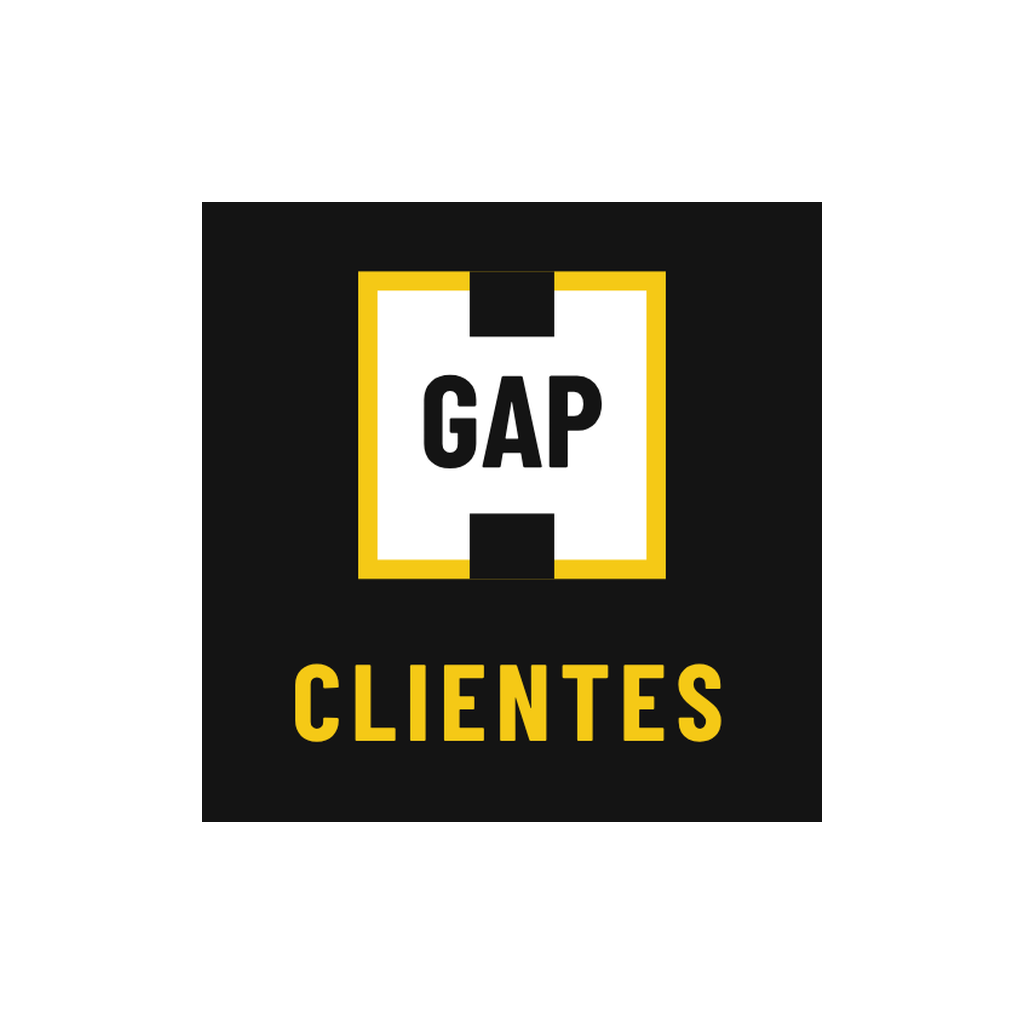
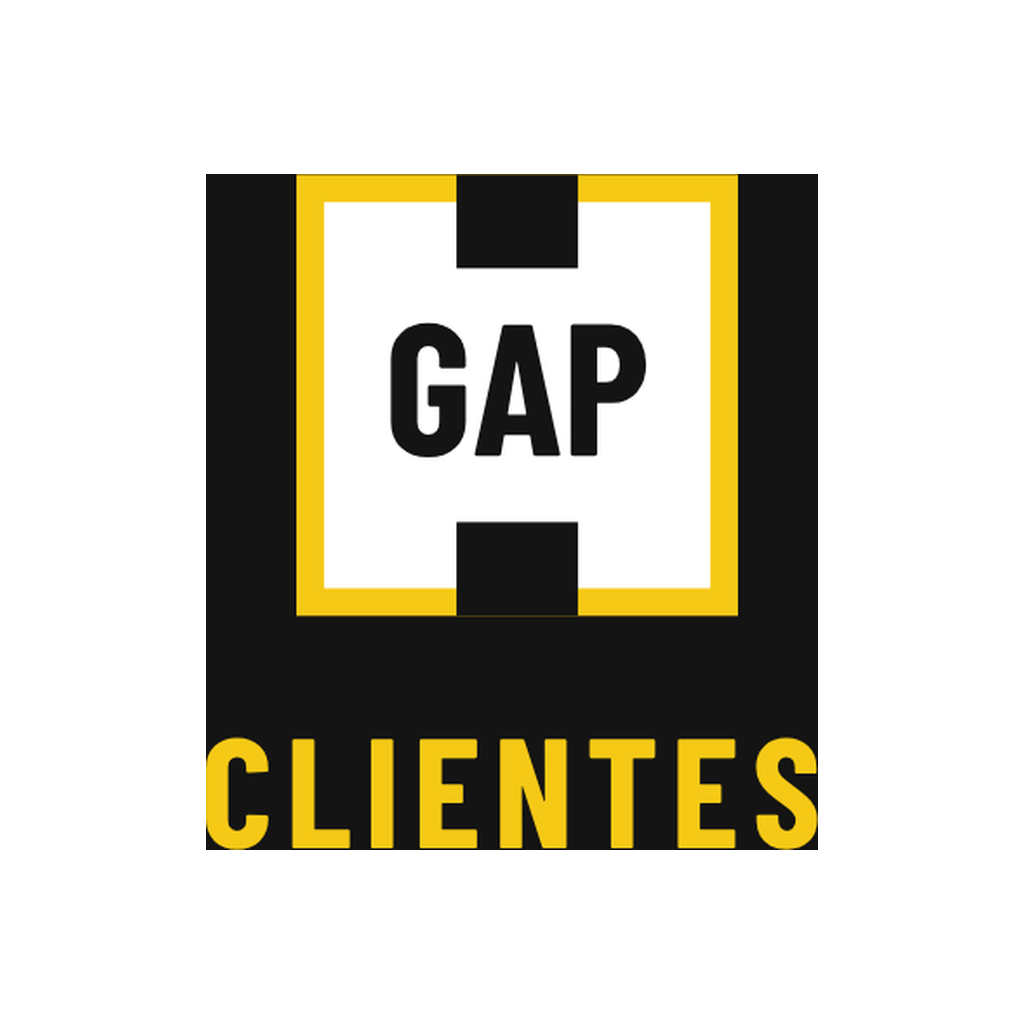
App: config.js dentro do app (abria sem a ligação com o banco) e ícone maior
Claude-Session: https://claude.ai/code/session_01DxR4yZW2QPaNKEX7wisBhL

Changed region(s): [[0.1875, 0.1562, 0.8125, 0.8438]]

diff --git a/web/config.js b/web/config.js
@@ -1,0 +1,7 @@
+// Ligação do site com o banco de dados (Supabase).
+// Estes dois valores são públicos por natureza: a segurança vem do login Google
+// e das regras do banco (só e-mails cadastrados em Equipe e acessos entram).
+window.GAP_CFG = {
+  url: 'https://jukhniqvhedqawwhkyog.supabase.co',
+  anonKey: 'eyJhbGciOiJIUzI1NiIsInR5cCI6IkpXVCJ9.eyJpc3MiOiJzdXBhYmFzZSIsInJlZiI6Imp1a2huaXF2aGVkcWF3d2hreW9nIiwicm9sZSI6ImFub24iLCJpYXQiOjE3OTIwMTI5MDQsImV4cCI6MjEwNzU4ODkwNH0.yWnV5IJHQhbjhhAQ4VYT9OTzp0hEk8U3nDFhe7kbtCQ'
+};
